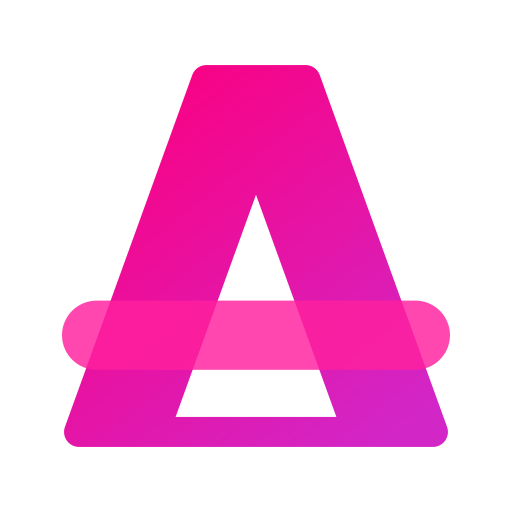
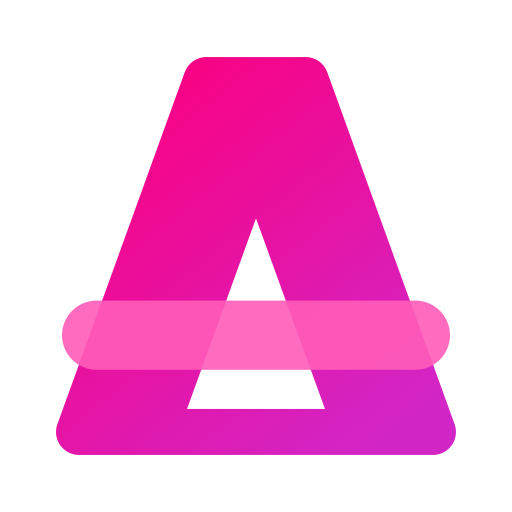
feat: bawa prinsip Google Workspace ke wordmark, bukan hanya ikonnya
Commit sebelumnya sudah memberi marka aplikasi kosakata Google Workspace:
bentuk mengapung, gradasi lembut, bidang bertumpuk. Wordmark-nya belum ikut,
masih dua warna datar.

Kata TAP sekarang membawa gradasi magenta ke violet yang SAMA dengan marka
aplikasinya. Logo dan ikon jadi satu bahasa, bukan dua benda mirip.

Tiga hal yang harus dibereskan supaya itu benar, bukan sekadar terlihat benar:

1. Gradasi tidak bisa ditempelkan ke tiap huruf. Setiap glyph dirender dengan
   transform sendiri, dan transform membuat ruang koordinat baru, jadi sapuannya
   ikut tergeser dan T, A, P masing-masing menyapu sendiri-sendiri. Terukur
   langsung dari piksel: ketiganya keluar rgb(202,5,102), warna yang sama persis,
   yaitu ujung awal gradasinya. Sekarang gradasi diberikan ke SATU bidang persegi
   tanpa transform, lalu bidang itu dipotong bentuk hurufnya. Terukur ulang:
   rgb(188,19,129) di T, rgb(175,29,151) di A, rgb(170,36,162) di P.

2. Gradasinya berpasangan per tema. Kedua ujung --gradient-hot gagal AA sebagai
   teks di atas paper: kontras simetris, jadi #fb007f yang 3,78 di bawah teks
   putih juga 3,78 sebagai teks di atas putih. Pasangan terang #c90063 ke #9430c4
   (5,59 dan 5,88); pasangan gelap #ff209d ke #b46ff5 (5,45 dan 5,99).

3. Jarak rona dilebarkan dari 25 ke sekitar 55 derajat. Versi 25 derajat sudah
   dibuat dan dilihat lebih dulu: dua warna gelap bertetangga rona terbaca
   sebagai satu warna pada wordmark setinggi 30px.
[…]

Changed region(s): [[0.0938, 0.0938, 0.9062, 0.9062]]

diff --git a/app/components/BrandLogo.tsx b/app/components/BrandLogo.tsx
@@ -1,4 +1,13 @@
-import { WORDMARK_HOT, WORDMARK_INK, WORDMARK_RATIO, WORDMARK_VIEWBOX } from "./brand-logo-paths";
+import {
+  WORDMARK_HEIGHT,
+  WORDMARK_HOT,
+  WORDMARK_HOT_FROM,
+  WORDMARK_HOT_TO,
+  WORDMARK_INK,
+  WORDMARK_RATIO,
+  WORDMARK_TOP,
+  WORDMARK_VIEWBOX,
+} from "./brand-logo-paths";
 
 /** Tinggi render bawaan, sama dengan tinggi wordmark lama di header. */
 const HEIGHT = 30;
@@ -11,13 +20,13 @@ const HEIGHT = 30;
  * metrik Poppins alih-alih menebaknya. Path-nya dihasilkan sekali oleh
  * scripts/build-brand.mjs; jangan menyunting brand-logo-paths.ts dengan tangan.
  *
- * Dua warna, dua sumber berbeda:
+ * Dua perlakuan warna, dua sumber berbeda:
  *
  * - "Haluan" memakai `currentColor`, jadi ia mengikuti tinta halaman dan
  *   berbalik sendiri antara tema terang dan gelap.
- * - "TAP" memakai `--brand-wordmark`, pasangan magenta yang sadar tema. Satu
- *   magenta untuk dua tema tidak mungkin: `--cta` cukup untuk isian berlabel
- *   putih, tapi sebagai TEKS di atas ink ia hanya sekitar 3,6.
+ * - "TAP" memakai gradasi magenta ke violet yang SAMA dengan marka
+ *   aplikasinya, lewat --wordmark-from dan --wordmark-to. Kedua token itu
+ *   berpasangan per tema; alasannya ada di tokens.css.
  *
  * `aria-hidden` disengaja. Setiap tautan yang memuat logo ini sudah membawa
  * `aria-label="Haluan TAP, ke beranda"`; memberi SVG-nya nama sendiri hanya
@@ -33,16 +42,47 @@ export default function BrandLogo() {
       aria-hidden="true"
       focusable="false"
     >
+      <defs>
+        {/**
+         * Gradasinya diberikan ke SATU bidang persegi, lalu bidang itu dipotong
+         * mengikuti bentuk hurufnya. Bukan diberikan langsung ke tiap huruf.
+         *
+         * Alasannya nyata, bukan preferensi. Tiap glyph dirender dengan
+         * `transform="translate(x)"` sendiri, dan transform itu membuat ruang
+         * koordinat baru. Gradasi yang menempel pada glyph — mau
+         * userSpaceOnUse maupun objectBoundingBox — ikut tergeser bersama
+         * transform-nya, sehingga T, A, dan P masing-masing menyapu
+         * sendiri-sendiri. Diukur langsung: ketiganya keluar dengan warna yang
+         * sama persis, yaitu ujung awal gradasinya.
+         *
+         * Persegi di bawah ini tidak punya transform sama sekali, jadi
+         * gradasinya diselesaikan tepat satu kali, membentang dari huruf T
+         * sampai huruf P.
+         */}
+        <linearGradient id="haluan-tap-sweep" x1="0" y1="0" x2="1" y2="1">
+          <stop offset="0" stopColor="var(--wordmark-from)" />
+          <stop offset="1" stopColor="var(--wordmark-to)" />
+        </linearGradient>
+        <clipPath id="haluan-tap-letters">
+          {WORDMARK_HOT.map((glyph) => (
+            <path key={`clip-${glyph.x}-${glyph.d.length}`} d={glyph.d} transform={`translate(${glyph.x})`} />
+          ))}
+        </clipPath>
+      </defs>
+
       <g fill="currentColor">
         {WORDMARK_INK.map((glyph) => (
           <path key={`ink-${glyph.x}-${glyph.d.length}`} d={glyph.d} transform={`translate(${glyph.x})`} />
         ))}
       </g>
-      <g fill="var(--brand-wordmark)">
-        {WORDMARK_HOT.map((glyph) => (
-          <path key={`hot-${glyph.x}-${glyph.d.length}`} d={glyph.d} transform={`translate(${glyph.x})`} />
-        ))}
-      </g>
+      <rect
+        clipPath="url(#haluan-tap-letters)"
+        x={WORDMARK_HOT_FROM}
+        y={WORDMARK_TOP}
+        width={WORDMARK_HOT_TO - WORDMARK_HOT_FROM}
+        height={WORDMARK_HEIGHT}
+        fill="url(#haluan-tap-sweep)"
+      />
     </svg>
   );
 }

diff --git a/app/styles/tokens.css b/app/styles/tokens.css
@@ -140,16 +140,26 @@
   --cta-contrast: #ffffff;
 
   /**
-   * Magenta kata "TAP" pada Logo Haluan TAP.
+   * Gradasi kata "TAP" pada Logo Haluan TAP.
    *
-   * Terpisah dari --cta karena perannya berbeda: --cta adalah ISIAN yang
-   * membawa label putih, sementara ini adalah TEKS di atas latar halaman.
-   * Nilainya diambil langsung dari tabel kontras §2.5, yang mencatat #ff209d
-   * mencapai 5,45 di atas #0e0e13. --cta sendiri hanya sekitar 3,6 sebagai
-   * teks di atas ink, jadi memakainya di sini akan membuat nama produk sulit
-   * dibaca justru di tema bawaan aplikasi.
+   * Sapuan yang sama dengan marka aplikasinya, jadi logo dan ikon terbaca
+   * sebagai satu benda. Rona-nya mengikuti --gradient-hot (magenta ke violet),
+   * tapi luminance-nya digeser per tema karena kedua ujung asli gradasi itu
+   * tidak bisa jadi TEKS di atas paper: kontras bersifat simetris, jadi
+   * #fb007f yang hanya 3,78 di bawah teks putih juga hanya 3,78 sebagai teks
+   * di atas putih, dan #d226c7 hanya 4,23.
+   *
+   * Jarak RONA-nya sengaja dilebarkan ke sekitar 55 derajat. Versi pertama
+   * hanya berjarak 25 derajat dan sapuannya praktis tidak terlihat pada
+   * wordmark setinggi 30px: dua warna gelap yang bertetangga rona terbaca
+   * sebagai satu warna. Ujung violetnya tetap di rentang ungu, tidak masuk ke
+   * biru, jadi ia masih warna Haluan.
+   *
+   * Pasangan gelap, diukur terhadap --surface #0e0e13 yang lebih ketat
+   * daripada --bg: #ff209d = 5,45 dan #b46ff5 = 5,99. Keduanya lolos AA.
    */
-  --brand-wordmark: #ff209d;
+  --wordmark-from: #ff209d;
+  --wordmark-to: #b46ff5;
 
   /* Ramp padat kini identik dengan ramp tombol. Namanya dipertahankan karena
      dipakai kontrol rapat (tombol kartu, pil hitungan filter, baris tabel
@@ -398,9 +408,10 @@
   --cta-press: #be005e;
   --cta-contrast: #ffffff;
 
-  /* §2.5: #c90063 mencapai 5,59 di atas paper. Pasangan terang dari
-     --brand-wordmark; lihat catatannya di blok tema gelap. */
-  --brand-wordmark: #c90063;
+  /* Pasangan terang, diukur terhadap paper #fcfcfc: #c90063 = 5,59 dan
+     #9430c4 = 5,88. Lihat catatan lengkapnya di blok tema gelap. */
+  --wordmark-from: #c90063;
+  --wordmark-to: #9430c4;
 
   --action: var(--cta);
   --action-hover: var(--cta-hover);

diff --git a/public/offline.html b/public/offline.html
@@ -111,7 +111,7 @@
   </head>
   <body>
     <main>
-      <svg class="mark" aria-hidden="true" focusable="false" xmlns="http://www.w3.org/2000/svg" viewBox="0 0 512 512"><defs><linearGradient id="hot" x1="0.1" y1="0" x2="0.9" y2="1"><stop offset="0" stop-color="#fb007f"/><stop offset="1" stop-color="#d226c7"/></linearGradient></defs><g transform="translate(71.02 431.95) scale(0.50129)"><path d="M16 0L270 -702H468L722 0ZM166 0L572 0L369 -561.0Z" fill="url(#hot)" stroke="url(#hot)" stroke-width="59.8" stroke-linejoin="round"/><path d="M51 -262h636a69 69 0 0 1 0 138h-636a69 69 0 0 1 0 -138z" fill="#ff209d" opacity="0.82"/></g></svg>
+      <svg class="mark" aria-hidden="true" focusable="false" xmlns="http://www.w3.org/2000/svg" viewBox="0 0 512 512"><defs><linearGradient id="hot" x1="0.1" y1="0" x2="0.9" y2="1"><stop offset="0" stop-color="#fb007f"/><stop offset="1" stop-color="#d226c7"/></linearGradient></defs><g transform="translate(71.02 431.95) scale(0.50129)"><path d="M16 0L270 -702H468L722 0ZM166 0L572 0L369 -561.0Z" fill="url(#hot)" stroke="url(#hot)" stroke-width="91.8" stroke-linejoin="round"/><path d="M51 -262h636a69 69 0 0 1 0 138h-636a69 69 0 0 1 0 -138z" fill="#ff5cb8" opacity="0.9"/></g></svg>
       <h1>Tidak ada koneksi</h1>
       <p>
         TAP menampilkan komisi dan status sample yang berubah setiap hari, jadi halaman ini tidak

diff --git a/app/components/brand-logo-paths.ts b/app/components/brand-logo-paths.ts
@@ -7,6 +7,12 @@ export type BrandGlyph = { readonly d: string; readonly x: number };
 export const WORDMARK_VIEWBOX = "0 -740 5878 752";
 export const WORDMARK_RATIO = 7.8165;
 
+/** Kotak kata "TAP", tempat bidang gradasinya digambar lalu dipotong. */
+export const WORDMARK_HOT_FROM = 3948;
+export const WORDMARK_HOT_TO = 5878;
+export const WORDMARK_TOP = -740;
+export const WORDMARK_HEIGHT = 752;
+
 /** Kata "Haluan": mengikuti tinta halaman lewat currentColor. */
 export const WORDMARK_INK: readonly BrandGlyph[] = [
   { d: "M670 -702V0H499V-289H233V0H62V-702H233V-427H499V-702Z", x: 0 },
@@ -17,7 +23,7 @@ export const WORDMARK_INK: readonly BrandGlyph[] = [
   { d: "M617 -326V0H447V-303Q447 -359 418.0 -390.0Q389 -421 340 -421Q291 -421 262.0 -390.0Q233 -359 233 -303V0H62V-558H233V-484Q259 -521 303.0 -542.5Q347 -564 402 -564Q500 -564 558.5 -500.5Q617 -437 617 -326Z", x: 2958 },
 ];
 
-/** Kata "TAP": magenta yang sadar tema, lihat --brand-wordmark. */
+/** Kata "TAP": dipotong dari bidang bergradasi, lihat --wordmark-from/to. */
 export const WORDMARK_HOT: readonly BrandGlyph[] = [
   { d: "M567 -702V-565H381V0H210V-565H24V-702Z", x: 3932 },
   { d: "M16 0L270 -702H468L722 0ZM166 0L572 0L369 -561.0Z", x: 4503 },

diff --git a/BRAND-SYSTEM.md b/BRAND-SYSTEM.md
@@ -214,6 +214,7 @@ Bentuknya dipertahankan dari yang sudah ada di `tokens.css`, hanya hue-nya digan
 - Gradasi tidak pernah berada di bawah teks ≤14px. Untuk teks kecil, pakai isian solid.
 - Tidak ada dua bidang bergradasi yang bersentuhan. Selalu ada permukaan solid di antaranya.
 - Maksimal satu Haluan Hot per viewport. Kalau ada dua, salah satunya bukan yang utama dan harus turun jadi solid.
+- **Logo TIDAK dihitung.** Gradasi pada kata "TAP" di Logo Haluan TAP berada di luar tiga aturan di atas: ia tidak menghabiskan jatah satu-per-viewport, boleh bersentuhan dengan bidang bergradasi lain, dan boleh berada pada ukuran teks kecil. Alasannya bukan kelonggaran, melainkan perbedaan peran. Aturan-aturan itu ada untuk mencegah gradasi SALING BERSAING memperebutkan perhatian di antara kontrol. Logo tidak ikut lomba itu: ia identitas yang justru harus tampil sama persis di setiap halaman, dan orang berhenti "melihat"-nya setelah kunjungan kedua. Yang tetap mengikat logo: gradasinya dua perhentian dalam rona bertetangga, dan tidak pernah diletakkan di atas bidang bergradasi lain.
 - Gradasi tidak dianimasikan. Sapuan yang bergerak menarik perhatian ke arah yang tidak membawa informasi.
 
 ---
@@ -453,14 +454,18 @@ TAP punya logonya sendiri, bukan wordmark korporat induk yang ditempeli badge. S
 
 **Wordmark.** Satu baris, "Haluan TAP", Poppins 700 dijadikan outline. Outline, bukan teks hidup: sebuah logo tidak boleh berubah bentuk kalau webfont gagal dimuat. Huruf **A** pada TAP digambar ulang, dan hanya huruf itu: palangnya diganti batang berujung bulat yang menembus kedua kaki. Batang itu bentuk yang sama dengan yang ada di marka aplikasinya, jadi logo di header dan ikon di layar utama benar-benar satu huruf.
 
-- **Dua warna, dua sumber.** "Haluan" memakai `currentColor` sehingga mengikuti tinta halaman. "TAP" memakai `--brand-wordmark`, pasangan magenta yang sadar tema: `#c90063` di terang (5,59 di atas paper) dan `#ff209d` di gelap (5,45 di atas `#0e0e13`), keduanya dari tabel §2.5. `--cta` tidak bisa dipakai di sini: sebagai teks di atas ink ia hanya sekitar 3,6.
+- **Dua perlakuan, dua sumber.** "Haluan" memakai `currentColor` sehingga mengikuti tinta halaman. "TAP" membawa gradasi magenta ke violet yang SAMA dengan marka aplikasinya, lewat `--wordmark-from` dan `--wordmark-to`.
+- **Gradasinya berpasangan per tema**, bukan satu nilai. Kedua ujung `--gradient-hot` gagal AA sebagai teks di atas paper: kontras bersifat simetris, jadi `#fb007f` yang hanya 3,78 di bawah teks putih juga hanya 3,78 sebagai teks di atas putih, dan `#d226c7` hanya 4,23. Pasangan terang `#c90063` → `#9430c4` (5,59 dan 5,88 di atas paper); pasangan gelap `#ff209d` → `#b46ff5` (5,45 dan 5,99 di atas `#0e0e13`). Jarak rona-nya sekitar 55 derajat, karena versi 25 derajat pertama praktis tidak terlihat pada wordmark setinggi 30px.
+- **Gradasinya diberikan ke satu bidang persegi yang dipotong bentuk huruf**, bukan ke tiap huruf. Tiap glyph punya `transform` sendiri, dan transform membuat ruang koordinat baru, jadi gradasi yang menempel pada glyph ikut tergeser dan setiap huruf menyapu sendiri-sendiri. Terukur: ketiganya keluar dengan warna yang sama persis.
 - **Clear space** minimal setinggi huruf "H" di keempat sisi.
 - **Tinggi minimum** 22px di layar. Di bawah itu batang huruf A menutup rongganya.
 - **Latar yang diizinkan**: paper, ink, permukaan netral. Tidak pernah di atas `--gradient-hot` — magenta di atas magenta.
 - Tidak diregangkan, tidak dimiringkan, tidak diberi bayangan. `scaleX()` dan `font-stretch` dilarang §4.2; karena logonya outline, penskalaan proporsional memang satu-satunya yang mungkin.
-- **Tanpa gradasi.** §3.4 membatasi satu Haluan Hot per viewport, dan header muncul di setiap halaman.
+- **Gradasi logo tidak dihitung dalam jatah §3.4.** Pengecualian itu ditulis di sana beserta alasannya. Yang tetap berlaku: dua perhentian saja, rona bertetangga, dan logo tidak pernah diletakkan di atas bidang bergradasi lain.
 
-**Marka aplikasi.** Huruf A yang sama, diperbesar, dengan sudut dibulatkan dan dua bidang bertumpuk: chevron bergradasi `#fb007f` → `#d226c7` (kedua ujung `--gradient-hot`), lalu batang `#ff209d` semitransparan yang memunculkan nada ketiga di persilangannya. Kosakata ini mengikuti set ikon Google Workspace.
+**Marka aplikasi.** Huruf A yang sama, diperbesar, dengan sudut dibulatkan dan dua bidang bertumpuk: chevron bergradasi `#fb007f` → `#d226c7` (kedua ujung `--gradient-hot`), lalu batang `#ff5cb8` semitransparan yang memunculkan nada ketiga di persilangannya. Kosakata ini mengikuti set ikon Google Workspace.
+
+Batangnya pink pucat, bukan magenta terang. Versi pertama memakai `#ff209d`, dan magenta terang di atas chevron yang juga magenta hampir tidak menghasilkan beda nada sama sekali — justru nada ketiga itu yang jadi inti perangkatnya di set referensi.
 
 Gradasinya boleh di sini, dan itu bukan pengecualian yang dibuat-buat: batas §3.4 berlaku per viewport halaman, sementara bilah tab dan layar utama ponsel bukan viewport halaman. Yang tetap berlaku adalah pelajaran favicon sebelumnya — tiga perhentian lintas rona jadi bubur di 16px. Karena itu **dua** perhentian, dan rona bertetangga.
 
@@ -471,7 +476,7 @@ Gradasinya boleh di sini, dan itu bukan pengecualian yang dibuat-buat: batas §3
 | `apple-icon.png` | paper `#fcfcfc` | iOS tidak menangani transparansi ikon secara konsisten |
 | `icon-badge-96.png` | transparan, satu warna | Android meratakan badge notifikasi jadi siluet |
 
-`public/offline.html` memuat marka ini sebagai SVG **inline**. Halaman itu justru dipakai saat jaringan mati, jadi ia tidak boleh bergantung pada berkas yang harus diambil dari server.
+`public/offline.html` memuat marka ini sebagai SVG **inline**. Halaman itu justru dipakai saat jaringan mati, jadi ia tidak boleh bergantung pada berkas yang harus diambil dari server. `scripts/build-brand.mjs` menulis ulang marka itu setiap kali dijalankan, karena salinan tangan pasti menyimpang dan tidak ada satu pun tes yang memeriksanya.
 
 **`public/haluan-logo.png` tetap disimpan** sebagai wordmark korporat Haluan Digital Network, tetapi tidak lagi dirujuk kode mana pun. Ia identitas induk, bukan aset produk. Aturan lamanya — tidak diregangkan, tidak diganti warnanya — tetap berlaku kalau suatu saat ia dipakai lagi.
 
